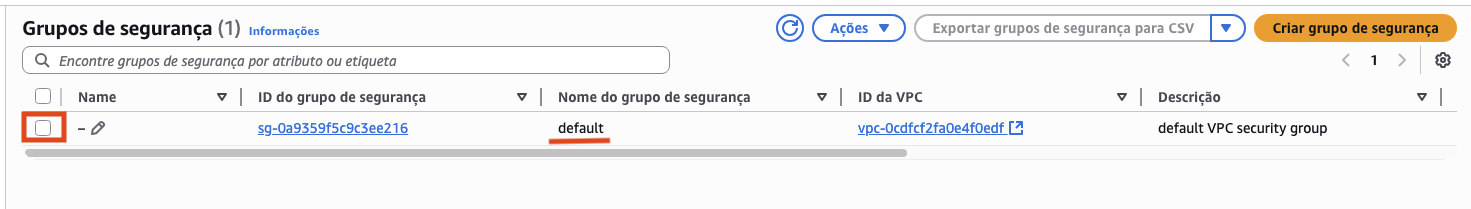
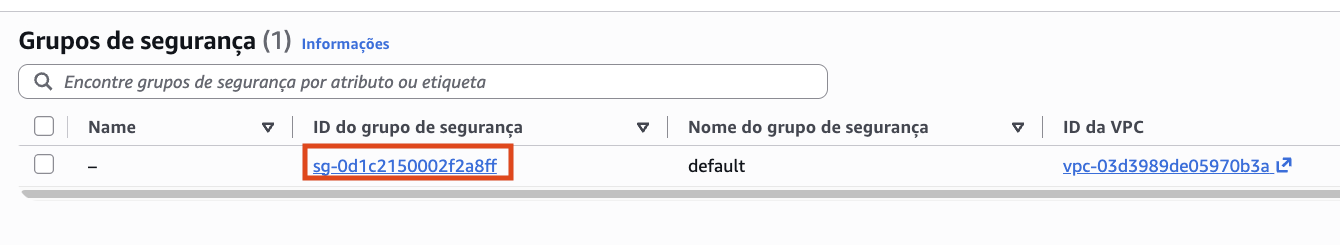
01-plan-apply

diff --git a/01-Terraform/demos/01-Plan-Apply/README.md b/01-Terraform/demos/01-Plan-Apply/README.md
@@ -95,7 +95,6 @@ cd /workspaces/FIAP-AI-Devops-CICD/01-Terraform/demos/01-Plan-Apply/EC2
 **2.** Inicialize o diretório de trabalho:
 
 ```bash
-cd /workspaces/FIAP-AI-Devops-CICD/01-Terraform/demos/01-Plan-Apply/EC2
 terraform init
 ```
 
@@ -535,43 +534,87 @@ Documentação: [aws ssm send-command](https://docs.aws.amazon.com/cli/latest/re
 
 <a id="passo-13"></a>
 
-**13.** Antes do `apply`, precisamos liberar o tráfego HTTP para conseguir abrir a página no navegador. Abra o [painel EC2 da AWS](https://us-east-1.console.aws.amazon.com/ec2/home?region=us-east-1#Home:) numa aba do navegador.
+**13.** Antes do `apply`, precisamos liberar o tráfego para conseguir abrir a página no navegador. A EC2 deste lab não declara rede nem Security Group, então a AWS a coloca na **VPC default**, com o **Security Group `default`** dessa VPC. É nas **regras de entrada** desse grupo que vamos mexer.
 
 ---
 
 <a id="passo-14"></a>
 
-**14.** No menu lateral esquerdo, clique em **Security Groups**.
+**14.** No terminal do Codespaces, copie o bloco inteiro abaixo, cole e tecle Enter. Ele encontra a VPC default e o Security Group `default` dela, **apaga todas as regras de entrada** que existirem e adiciona uma única regra: **todo o tráfego, de qualquer origem (`0.0.0.0/0`)**. As regras de saída não são alteradas.
 
-![](images/painelec2.png)
+```bash
+VPC=$(aws ec2 describe-vpcs --region us-east-1 --filters Name=is-default,Values=true --query 'Vpcs[0].VpcId' --output text)
+SG=$(aws ec2 describe-security-groups --region us-east-1 --filters Name=vpc-id,Values=$VPC Name=group-name,Values=default --query 'SecurityGroups[0].GroupId' --output text)
+echo "VPC default: $VPC | Security Group default: $SG"
+for REGRA in $(aws ec2 describe-security-group-rules --region us-east-1 --filters Name=group-id,Values=$SG --query 'SecurityGroupRules[?IsEgress==`false`].SecurityGroupRuleId' --output text); do aws ec2 revoke-security-group-ingress --region us-east-1 --group-id $SG --security-group-rule-ids $REGRA > /dev/null; done
+aws ec2 authorize-security-group-ingress --region us-east-1 --group-id $SG --protocol -1 --cidr 0.0.0.0/0 > /dev/null
+aws ec2 describe-security-group-rules --region us-east-1 --filters Name=group-id,Values=$SG --query 'SecurityGroupRules[?IsEgress==`false`].[IpProtocol,CidrIpv4]' --output table
+```
+
+> Saída esperada (os IDs variam). A tabela do final serve de conferência: **uma única linha**, protocolo `-1` (todo o tráfego) e origem `0.0.0.0/0`:
+>
+> ```text
+> VPC default: vpc-0123456789abcdef0 | Security Group default: sg-0123456789abcdef0
+> ----------------------------
+> |DescribeSecurityGroupRules|
+> +-------+------------------+
+> |  -1   |  0.0.0.0/0       |
+> +-------+------------------+
+> ```
+
+Você pode executar o bloco quantas vezes quiser. Como ele sempre apaga o que existe antes de criar a regra, o resultado é o mesmo e não aparece erro de regra duplicada.
+
+<details>
+<summary><b>💡 Clique para entender cada linha</b></summary>
+<blockquote>
+
+| Linha | O que faz |
+|---|---|
+| `VPC=$(...)` | Pergunta à AWS qual é a VPC marcada como default (`is-default=true`) e guarda o ID na variável `VPC`. |
+| `SG=$(...)` | Procura, **dentro dessa VPC**, o Security Group chamado `default` e guarda o ID em `SG`. Filtrar pela VPC evita pegar o `default` de outra rede. |
+| `echo` | Mostra os dois IDs, para você conferir que algo foi encontrado. |
+| `for REGRA in ...` | Lista os IDs de todas as regras de **entrada** (`IsEgress==false`) do grupo e apaga uma a uma com `revoke-security-group-ingress`. Se não houver nenhuma, o laço não faz nada. |
+| `authorize-security-group-ingress` | Cria a regra nova: `--protocol -1` significa todos os protocolos e portas, e `--cidr 0.0.0.0/0` significa qualquer endereço da internet. |
+| `describe-security-group-rules ... --output table` | Lê de novo as regras de entrada e imprime a tabela de conferência. |
+
+O `> /dev/null` só esconde o JSON que a AWS devolve a cada alteração, para a saída ficar curta. Se houver erro, ele aparece mesmo assim, porque os erros saem por outro canal.
+
+</blockquote>
+</details>
+
+<details>
+<summary><b>⚠ Se der erro no passo 14</b></summary>
+<blockquote>
+
+- `Unable to locate credentials` ou `ExpiredToken`: as credenciais do Learner Lab não estão no Codespaces ou expiraram. Refaça o [Início de aula](../../../00-create-codespaces/Inicio-de-aula.md) e rode o bloco de novo.
+- A linha `echo` mostra `None` no lugar dos IDs: a conta não tem VPC default. No Learner Lab ela existe; avise o professor.
+- `UnauthorizedOperation`: a sessão do Learner Lab não está ativa (a bolinha não está verde). Inicie o lab, atualize as credenciais e rode o bloco de novo.
+
+</blockquote>
+</details>
 
 ---
 
 <a id="passo-15"></a>
 
-**15.** Selecione o Security Group com `default` na coluna Nome. Vá à aba **Regras de entrada** e clique em **Editar regras de entrada**.
+**15.** Confira o resultado também no console. Abra o [painel EC2 da AWS](https://us-east-1.console.aws.amazon.com/ec2/home?region=us-east-1#Home:), clique em **Security Groups** no menu lateral, selecione o grupo com `default` na coluna Nome e abra a aba **Regras de entrada**.
+
+![](images/painelec2.png)
 
 ![](images/sgpainel.png)
-
-![](images/sgpainel2.png)
 
 ---
 
 <a id="passo-16"></a>
 
-**16.** Apague as regras existentes, adicione uma regra liberando **HTTP (porta 80)** para **Qualquer Local-IPv4** e clique em **Salvar regras**.
+**16.** A aba **Regras de entrada** deve mostrar uma única regra: **Todo o tráfego**, com origem `0.0.0.0/0`, a mesma da tabela do passo 14. Não é preciso editar nada no console.
 
-![](images/anywhere.png)
-
-![](images/anywhere2.png)
-
-<!-- TROCAR-IMAGEM: images/anywhere3.png | motivo: o print mostra a regra 'Todo o tráfego' com origem 0.0.0.0/0, que abre TODAS as portas; o texto e o WARNING pedem só HTTP na porta 80, e o passo 31 só remove a regra da porta 80 | capturar: console EC2 > Security Groups > default > Editar regras de entrada (passo 16), com UMA regra Tipo 'HTTP', Protocolo 'TCP', Intervalo de portas '80', Origem 'Qualquer local-IPv4' (0.0.0.0/0), antes de clicar em 'Salvar regras' -->
 ![](images/anywhere3.png)
 
 > [!WARNING]
-> **Porta 80 aberta para qualquer origem é uma exceção efêmera de laboratório, não um padrão de produção.** Ela é aceitável aqui porque a conta do Learner Lab é temporária, a página é pública e estática e não há nenhum dado sensível na máquina. O tráfego é HTTP, sem criptografia; este lab não configura HTTPS. Repare que **não precisamos abrir a porta 22**: o provisionamento é via SSM (que sai de dentro da máquina), não por SSH. Em produção, o Security Group seria descrito em código e com origem restrita, como faremos na demo Count. O passo [31](#passo-31), no fim do lab, remove essa regra.
+> **Todo o tráfego aberto para qualquer origem é uma exceção efêmera de laboratório, não um padrão de produção.** Ela é aceitável aqui porque a conta do Learner Lab é temporária, a página é pública e estática e não há nenhum dado sensível na máquina. O tráfego da página é HTTP, sem criptografia; este lab não configura HTTPS. O provisionamento não depende dessa regra: ele é feito via SSM (que sai de dentro da máquina), não por SSH. Em produção, o Security Group seria descrito em código, liberando só as portas necessárias e com origem restrita, como faremos na demo Count. O passo [31](#passo-31), no fim do lab, desfaz essa regra.
 
-Por que apagar a regra que já existia? A regra padrão do Security Group `default` libera **todo o tráfego vindo de outros recursos do mesmo grupo**. Este lab não precisa dela, e apagá-la deixa o grupo só com a regra que você entende (HTTP na porta 80). O risco: se outros recursos da sua conta usam o grupo `default` para conversar entre si, eles perdem essa comunicação. Neste lab nada depende dela, e o passo [31](#passo-31) mostra como restaurá-la.
+Por que apagar as regras que já existiam? A regra padrão do Security Group `default` libera **todo o tráfego vindo de outros recursos do mesmo grupo**. Apagar tudo antes de criar a regra nova deixa o grupo com uma única regra que você entende, e o resultado é sempre o mesmo, não importa o que havia antes. O risco: se outros recursos da sua conta usam o grupo `default` para conversar entre si, eles perdem essa comunicação até o passo [31](#passo-31), que restaura a regra padrão.
 
 ---
 
@@ -650,9 +693,9 @@ O hostname é a prova de que a página veio da EC2 que o Terraform acabou de cri
 <summary><b>⚠ Se der erro: a página do navegador não carrega</b></summary>
 <blockquote>
 
-Causa mais comum: o Security Group ainda não está liberando a porta 80. Confirme o passo 16. Se o `apply` terminou com `Status=Success` no log do provisionamento, o Nginx já está instalado — o problema é só a porta. Valide também que a instância está `running` no painel e que o DNS colado é exatamente o do output (`http://<dns>`).
+Causa mais comum: o Security Group ainda não está liberando o tráfego. Rode de novo o bloco do passo [14](#passo-14) e confira a tabela no final. Se o `apply` terminou com `Status=Success` no log do provisionamento, o Nginx já está instalado — o problema é só a regra de entrada. Valide também que a instância está `running` no painel e que o DNS colado é exatamente o do output (`http://<dns>`).
 
-Um **timeout** (o navegador fica carregando, o `curl` não responde) quase sempre é isso: a regra de entrada da porta 80 não existe ou foi salva em outro Security Group. Outra causa comum é o navegador forçar `https://`: digite `http://` explicitamente, porque o Nginx deste lab só escuta na porta 80.
+Um **timeout** (o navegador fica carregando, o `curl` não responde) quase sempre é isso: a regra de entrada não existe ou foi criada em outro Security Group. Outra causa comum é o navegador forçar `https://`: digite `http://` explicitamente, porque o Nginx deste lab só escuta na porta 80.
 
 </blockquote>
 </details>
@@ -715,7 +758,6 @@ terraform destroy -auto-approve
 > Destroy complete! Resources: 2 destroyed.
 > ```
 
-<!-- TROCAR-IMAGEM: images/painelec22.png (só neste passo 19; o passo 7 continua com o arquivo atual, que está correto para a EC2 sem nome) | motivo: o print mostra duas instâncias sem nome; a EC2 da Parte 2 tem a tag Name = quantum-ai-web | capturar: painel EC2 > Instâncias depois do 'terraform destroy' do passo 19, com a linha 'quantum-ai-web' no estado 'Encerrado'; salvar como images/painel-ec2-quantum-ai-web-encerrada.png e trocar a referência deste passo -->
 ![ec22](images/painelec22.png)
 
 ### Checkpoint
@@ -1119,25 +1161,32 @@ terraform destroy -auto-approve
 
 <a id="passo-31"></a>
 
-**31.** Feche a exceção da porta 80. A regra HTTP que você criou no passo [16](#passo-16) continua no Security Group `default` mesmo depois do `destroy`, porque foi criada no console, fora do Terraform. No terminal do Codespaces, rode:
+**31.** Feche a exceção de laboratório. A regra que o passo [14](#passo-14) criou continua no Security Group `default` mesmo depois do `destroy`, porque foi criada pela AWS CLI, fora do Terraform. No terminal do Codespaces, copie o bloco inteiro, cole e tecle Enter. Ele apaga todas as regras de entrada do grupo e restaura a **regra padrão da AWS**: todo o tráfego, mas só vindo de recursos do próprio grupo.
 
 ```bash
-aws ec2 revoke-security-group-ingress --group-name default --protocol tcp --port 80 --cidr 0.0.0.0/0 --region us-east-1
+VPC=$(aws ec2 describe-vpcs --region us-east-1 --filters Name=is-default,Values=true --query 'Vpcs[0].VpcId' --output text)
+SG=$(aws ec2 describe-security-groups --region us-east-1 --filters Name=vpc-id,Values=$VPC Name=group-name,Values=default --query 'SecurityGroups[0].GroupId' --output text)
+echo "VPC default: $VPC | Security Group default: $SG"
+for REGRA in $(aws ec2 describe-security-group-rules --region us-east-1 --filters Name=group-id,Values=$SG --query 'SecurityGroupRules[?IsEgress==`false`].SecurityGroupRuleId' --output text); do aws ec2 revoke-security-group-ingress --region us-east-1 --group-id $SG --security-group-rule-ids $REGRA > /dev/null; done
+aws ec2 authorize-security-group-ingress --region us-east-1 --group-id $SG --protocol -1 --source-group $SG > /dev/null
+aws ec2 describe-security-group-rules --region us-east-1 --filters Name=group-id,Values=$SG --query 'SecurityGroupRules[?IsEgress==`false`].[IpProtocol,ReferencedGroupInfo.GroupId]' --output table
 ```
 
-> Saída esperada (o ID da regra varia):
+> Saída esperada (os IDs variam). A tabela deve ter **uma única linha**, protocolo `-1` e, como origem, o **próprio** `sg-...` mostrado na linha `echo`; nenhuma linha com `0.0.0.0/0`:
 >
 > ```text
-> {
->     "Return": true,
->     ...
-> }
+> VPC default: vpc-0123456789abcdef0 | Security Group default: sg-0123456789abcdef0
+> -----------------------------------
+> |   DescribeSecurityGroupRules    |
+> +-----+---------------------------+
+> |  -1 |  sg-0123456789abcdef0     |
+> +-----+---------------------------+
 > ```
 
-Se aparecer `InvalidPermission.NotFound`, a regra já não existe e não há nada a limpar. Pelo console, o caminho é o dos passos 14 e 15: **Security Groups** → `default` → **Editar regras de entrada** → **Excluir** na regra HTTP → **Salvar regras**. Para restaurar a regra original do grupo, adicione ali uma regra **Todo o tráfego** com origem **Personalizado** apontando para o próprio grupo `default` (`sg-...`), como aparece no primeiro print do passo 16.
+A única diferença para o bloco do passo 14 está na penúltima linha: `--source-group $SG` no lugar de `--cidr 0.0.0.0/0`, ou seja, a origem passa a ser o próprio grupo em vez da internet inteira. Assim como o do passo 14, este bloco pode ser executado mais de uma vez sem erro.
 
-<!-- NOVA-IMAGEM: images/sg-default-sem-porta-80.png | capturar: console EC2 > Security Groups > default > aba 'Regras de entrada' depois do passo 31, mostrando que a regra HTTP/80 com origem 0.0.0.0/0 não existe mais | depois de salvar o arquivo, descomente a linha abaixo -->
-<!-- ![Regras de entrada do Security Group default sem a regra da porta 80](images/sg-default-sem-porta-80.png) -->
+<!-- NOVA-IMAGEM: images/sg-default-restaurado.png | capturar: console EC2 > Security Groups > default > aba 'Regras de entrada' depois do passo 31, mostrando UMA regra 'Todo o tráfego' com origem o próprio sg-... e nenhuma regra com 0.0.0.0/0 | depois de salvar o arquivo, descomente a linha abaixo -->
+<!-- ![Regras de entrada do Security Group default restauradas](images/sg-default-restaurado.png) -->
 
 ### Checkpoint
 
@@ -1146,7 +1195,7 @@ Se chegou até aqui, você:
 - listou os recursos que o Terraform rastreia (`state list`)
 - inspecionou os atributos de um recurso no estado (`state show`)
 - entendeu que esse estado, hoje local, precisa virar compartilhado — o gancho da demo 01.4
-- removeu a regra da porta 80, fechando a exceção de laboratório
+- restaurou a regra padrão do Security Group `default`, fechando a exceção de laboratório
 
 ---
 
